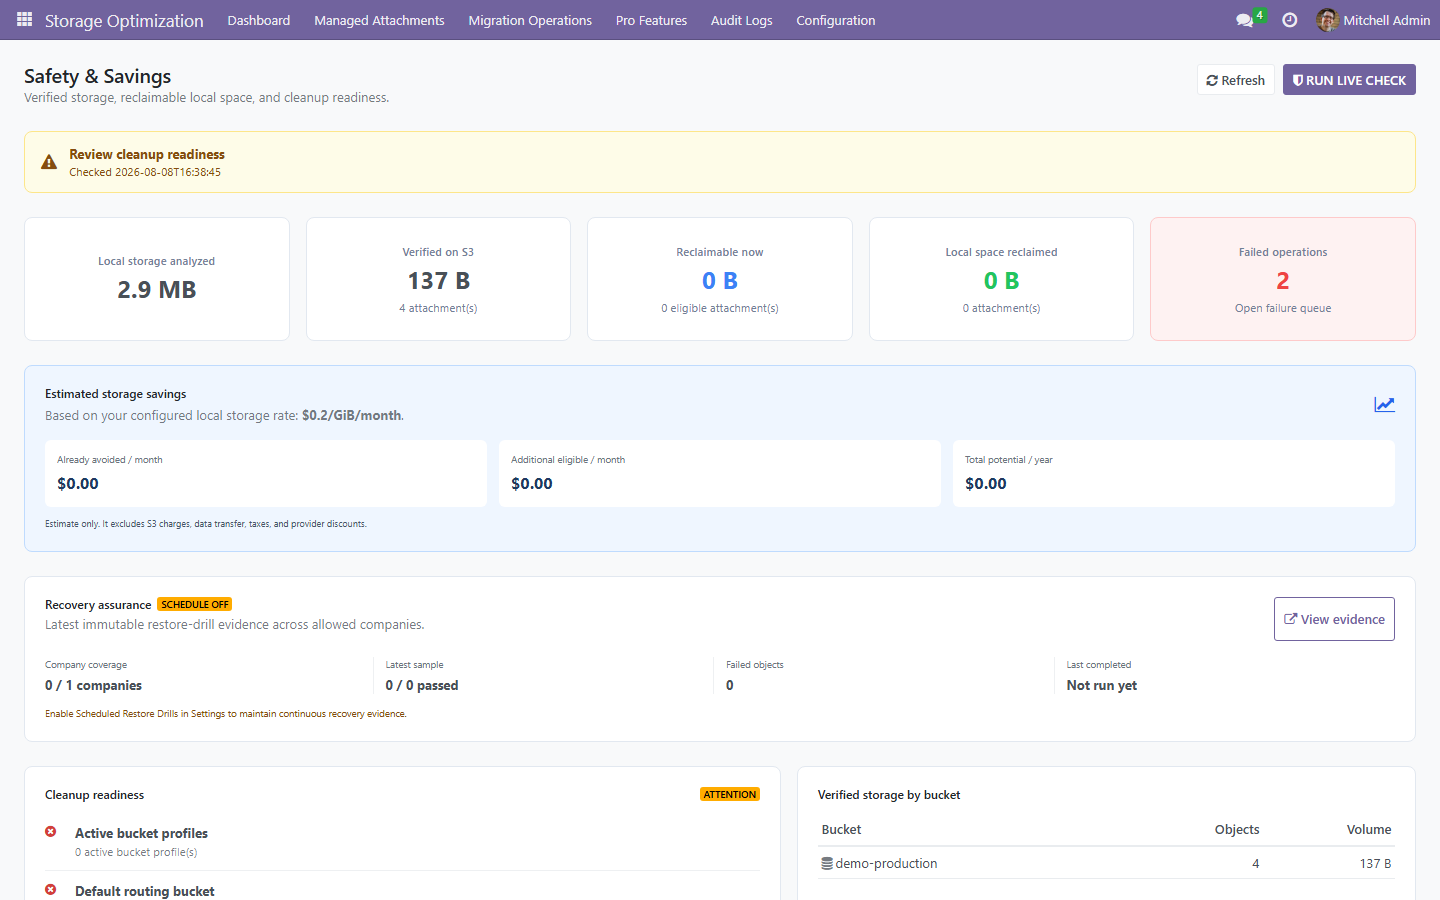
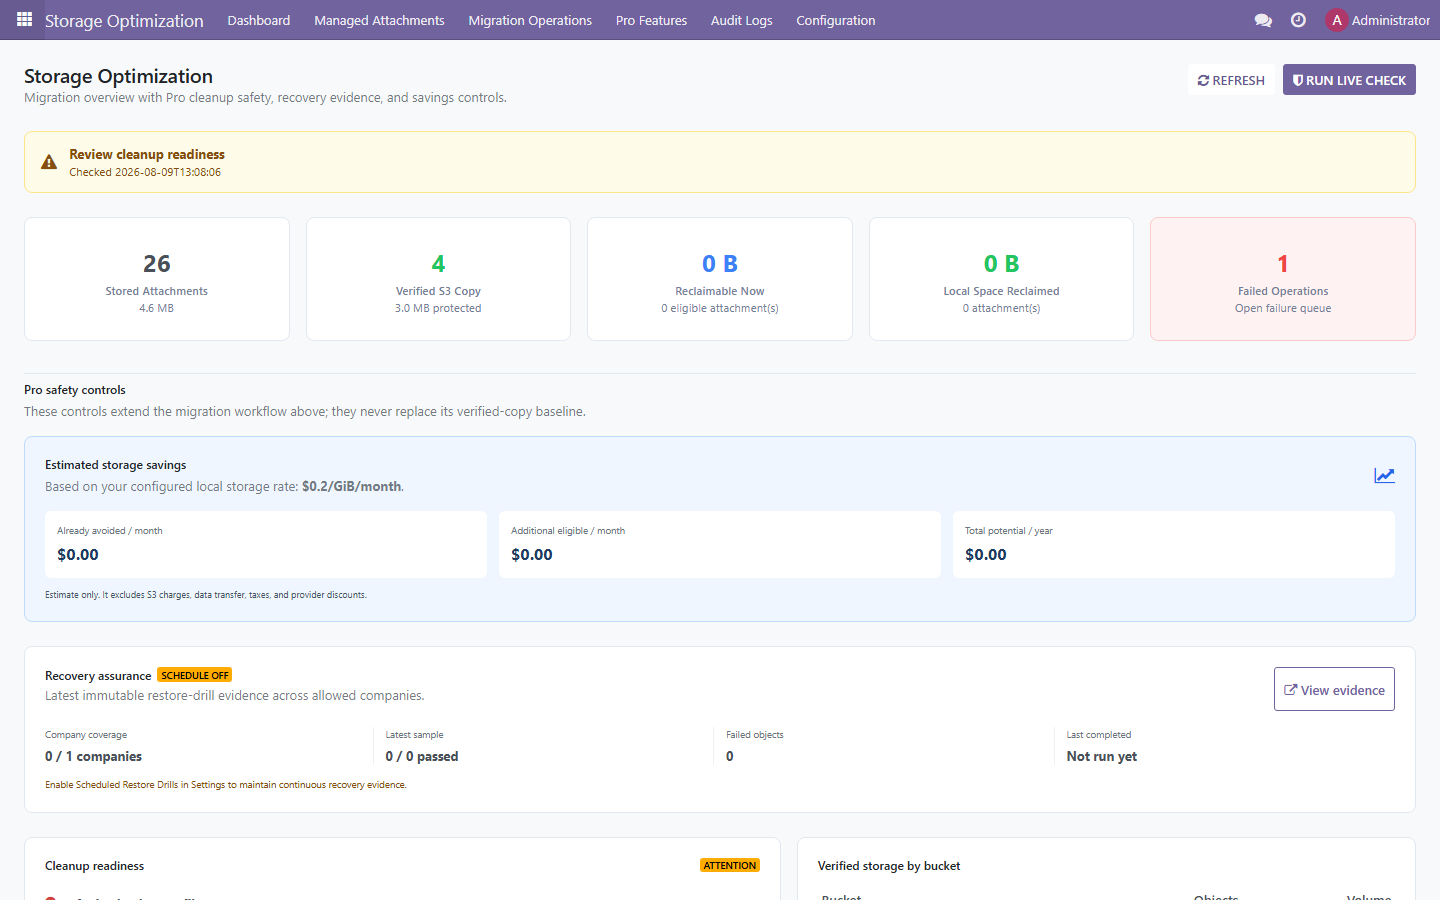
Align Pro dashboard with Free edition

diff --git a/attachment_optimizer_pro/static/description/index.html b/attachment_optimizer_pro/static/description/index.html
@@ -96,6 +96,6 @@ For subsequent modules, update content inside sections only. Do not alter sectio
     </div>
 
     <!-- FOOTER -->
-    <div style="border:1px solid #e2e8f0; border-radius:16px; padding:32px 24px; margin:40px 0 16px; text-align:center;"><div style="font-size:14px; font-weight:700; color:#1e293b; text-transform:uppercase;">Attachment Optimizer Pro</div><p style="font-size:13px; color:#64748b; line-height:1.6;">Automated, verified S3-compatible attachment lifecycle management for Odoo.</p><div style="display:inline-block; border:2px solid #4f46e5; color:#4f46e5; font-weight:700; font-size:13px; padding:10px 28px; border-radius:8px;">US$49 · One-Time · No Subscription</div><p style="font-size:11px; color:#94a3b8; margin:20px 0 0;">Version 16.0.1.0.18 · Built and maintained by FoxPink</p></div>
+    <div style="border:1px solid #e2e8f0; border-radius:16px; padding:32px 24px; margin:40px 0 16px; text-align:center;"><div style="font-size:14px; font-weight:700; color:#1e293b; text-transform:uppercase;">Attachment Optimizer Pro</div><p style="font-size:13px; color:#64748b; line-height:1.6;">Automated, verified S3-compatible attachment lifecycle management for Odoo.</p><div style="display:inline-block; border:2px solid #4f46e5; color:#4f46e5; font-weight:700; font-size:13px; padding:10px 28px; border-radius:8px;">US$49 · One-Time · No Subscription</div><p style="font-size:11px; color:#94a3b8; margin:20px 0 0;">Version 16.0.1.0.19 · Built and maintained by FoxPink</p></div>
   </div>
 </section>

diff --git a/attachment_optimizer_pro/static/src/components/pro_dashboard/pro_dashboard.scss b/attachment_optimizer_pro/static/src/components/pro_dashboard/pro_dashboard.scss
@@ -70,6 +70,7 @@ html .o_web_client .o_action_manager .o_pro_safety_dashboard {
 .o_pro_kpi_card small,
 .o_pro_kpi_label { color: #718096; }
 .o_pro_kpi_label { font-size: .95rem; font-weight: 600; }
+.o_pro_value_success { color: #22c55e; }
 .o_pro_kpi_action { cursor: pointer; transition: border-color .15s ease, box-shadow .15s ease; }
 .o_pro_kpi_action:hover,
 .o_pro_kpi_action:focus-visible { border-color: var(--o-brand-primary, #714b67); box-shadow: 0 0 0 3px rgba(113, 75, 103, .12); outline: 0; }
@@ -77,6 +78,17 @@ html .o_web_client .o_action_manager .o_pro_safety_dashboard {
 .o_pro_kpi_success strong { color: #22c55e; }
 .o_pro_kpi_danger { background: #fef2f2; border-color: #fecaca; }
 .o_pro_kpi_danger strong { color: #ef4444; }
+
+.o_pro_section_intro {
+    display: flex;
+    align-items: baseline;
+    justify-content: space-between;
+    gap: 16px;
+    margin: 32px 0 16px;
+    padding-top: 8px;
+    border-top: 1px solid #e2e8f0;
+}
+.o_pro_section_intro h3 { margin: 0 0 4px; font-size: 1rem; font-weight: 600; }
 
 .o_pro_savings_panel {
     margin-bottom: 24px;

diff --git a/attachment_optimizer_pro/__manifest__.py b/attachment_optimizer_pro/__manifest__.py
@@ -1,6 +1,6 @@
 {
     "name": "Attachment Optimizer Pro",
-    "version": "16.0.1.0.18",
+    "version": "16.0.1.0.19",
     "category": "Storage",
     "summary": "Automation, cleanup, routing and lifecycle for S3-compatible attachment storage.",
     "description": """

diff --git a/README.md b/README.md
@@ -8,7 +8,7 @@ Only update product content, version, links, compatibility status, screenshots, 
 
 ![Attachment Optimizer Pro](attachment_optimizer_pro/static/description/preview.png)
 
-**Version:** 16.0.1.0.18 -- **License:** OPL-1 -- **Publisher:** FoxPink -- Maintained for **Odoo 16.0**
+**Version:** 16.0.1.0.19 -- **License:** OPL-1 -- **Publisher:** FoxPink -- Maintained for **Odoo 16.0**
 
 ---
 
